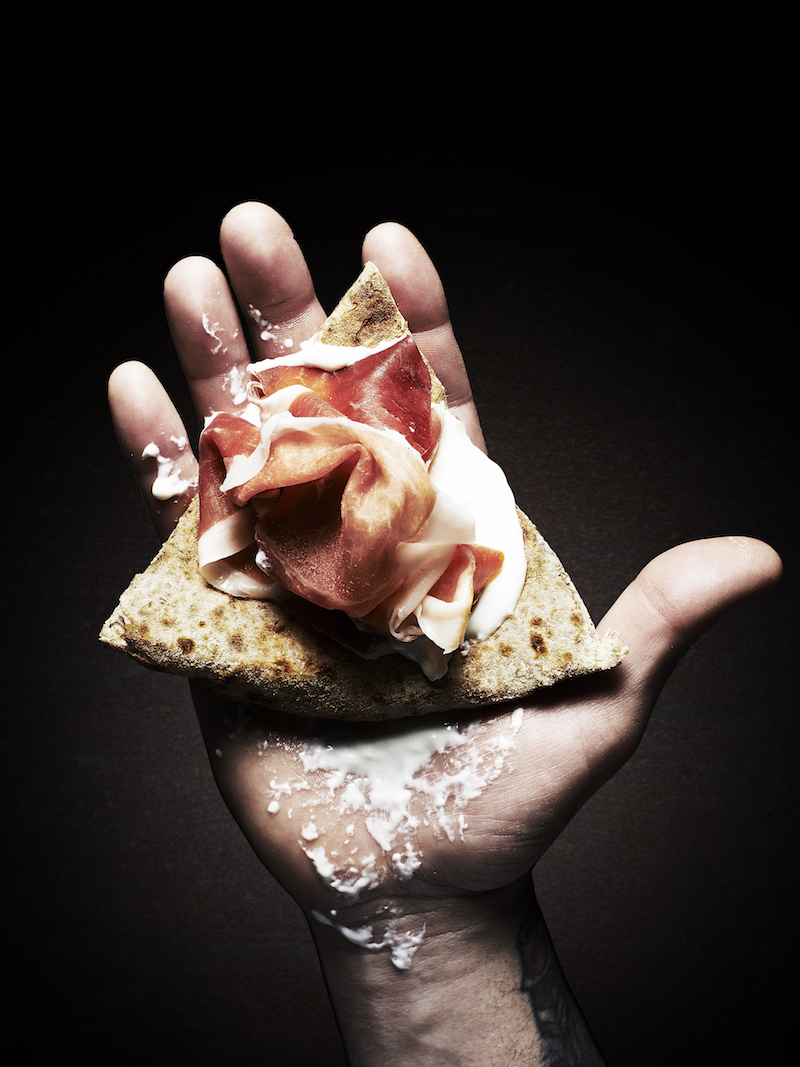
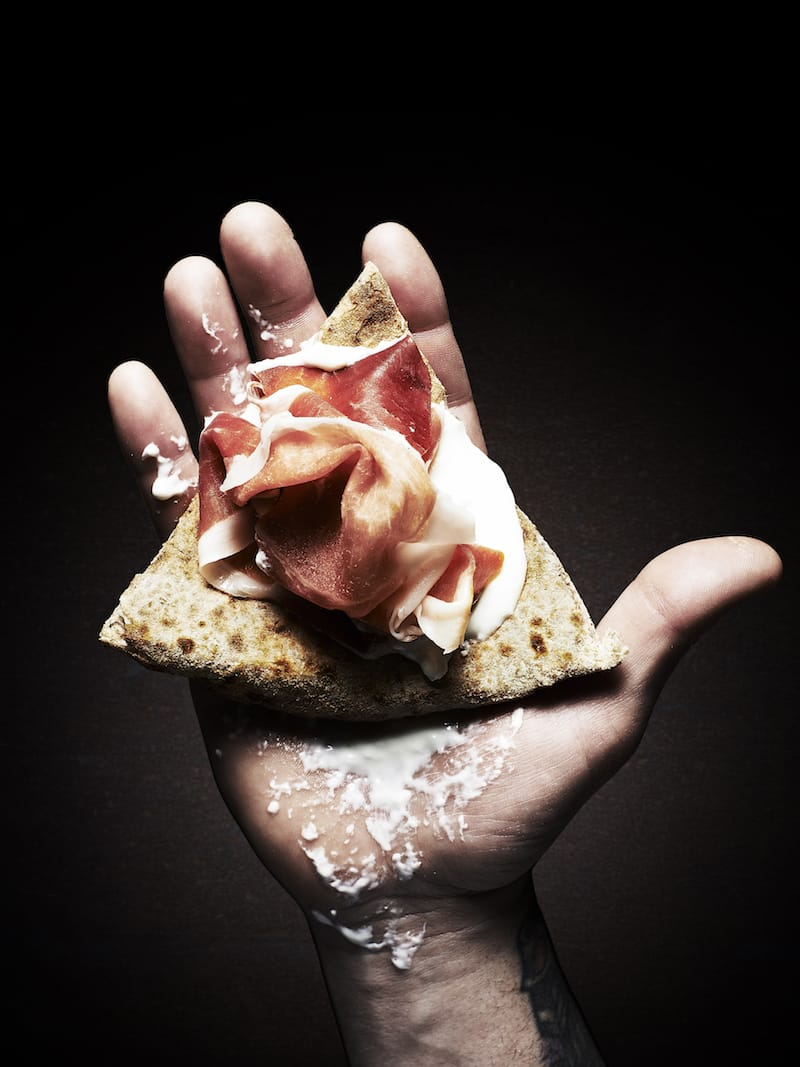
compressed enzo and mano

diff --git a/index.html b/index.html
@@ -73,7 +73,7 @@
           <p><strong>Stefano</strong>, con la passione per il suo lavoro e la professionalità acquisita negli anni, attraverso la gestione di locali di successo, l’ <em>Osteria del tempo perso</em> a Senigallia, <em>Via Giannelli 3</em> e oggi il <em>Caffè Guasco</em>, porta la sua competenza nella selezione di prodotti di alta qualità che propone in un ambiente caldo e accogliente, dal tono informale e familiare che invita alla convivialità.</p>
           
           <p><strong>Antonio</strong>, che  avendo acquisito la sua esperienza nell’ambito di un business di produzione artigianale di carne e salumi ne ha fatto la passione di una vita, a cui riviene dopo un percorso professionale internazionale nel settore finanziario, porta al <em>MATAS54</em> le nuove tendenze del fooding. </p>
-          <img class="enzo" src='Enzo.png' alt='Enzo, nostro pizzaiolo'>
+          <img class="enzo" src='Enzo.jpg' alt='Enzo, nostro pizzaiolo'>
           <p><strong>Enzo Ercole</strong>, terza generazione di pizzaioli, cresciuto a Senigallia, a fianco del padre al <em>Vicoletto da Michele</em>, formatosi sul modello che fonde ricerca e tradizione, arricchito poi da esperienze all’estero e dalla creatività personale, propone una pizza che attraverso l’uso di ingredienti di alta qualità, farine di produzione locale e una lunga lievitazione, è in grado di interpretare e soddisfare le nuove esigenze di giovani e meno giovani.</p>
           
           <p>Dalla primavera all’autunno <em>MATAS54</em> si apre sulla piazza San Francesco, ai piedi del maestoso portale della Chiesa che la sovrasta, in un ambiente raccolto di unica bellezza.</p>  
